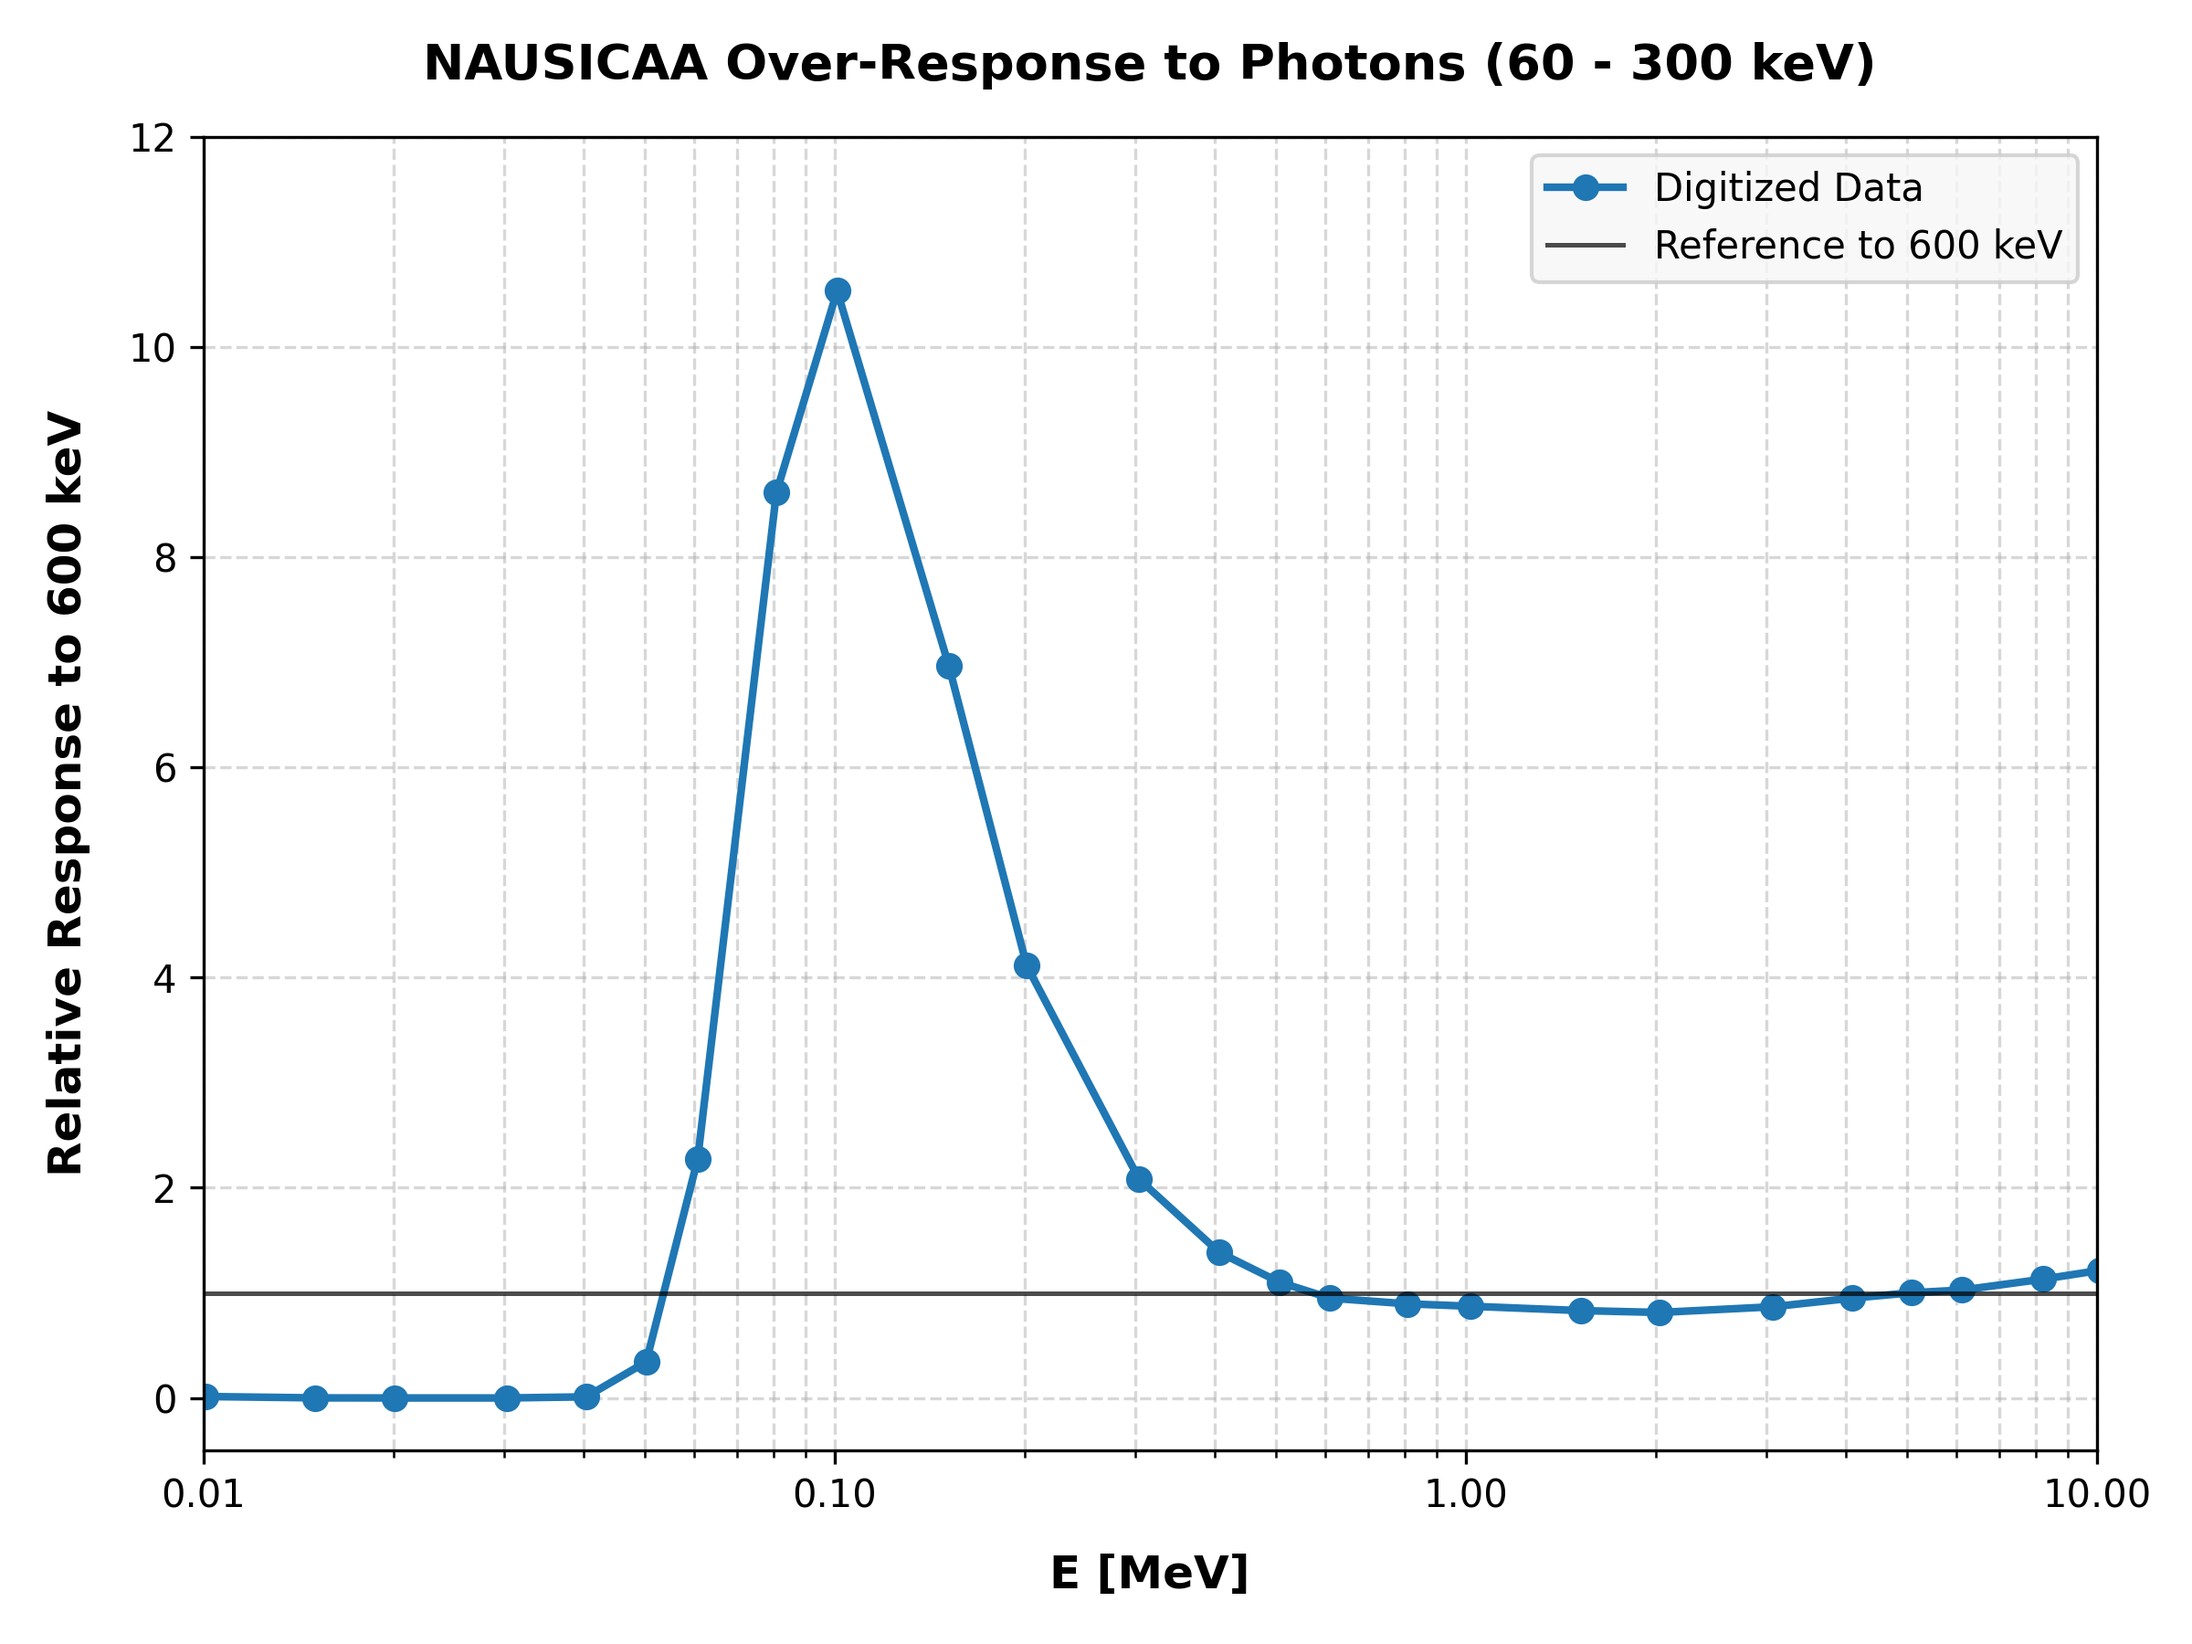
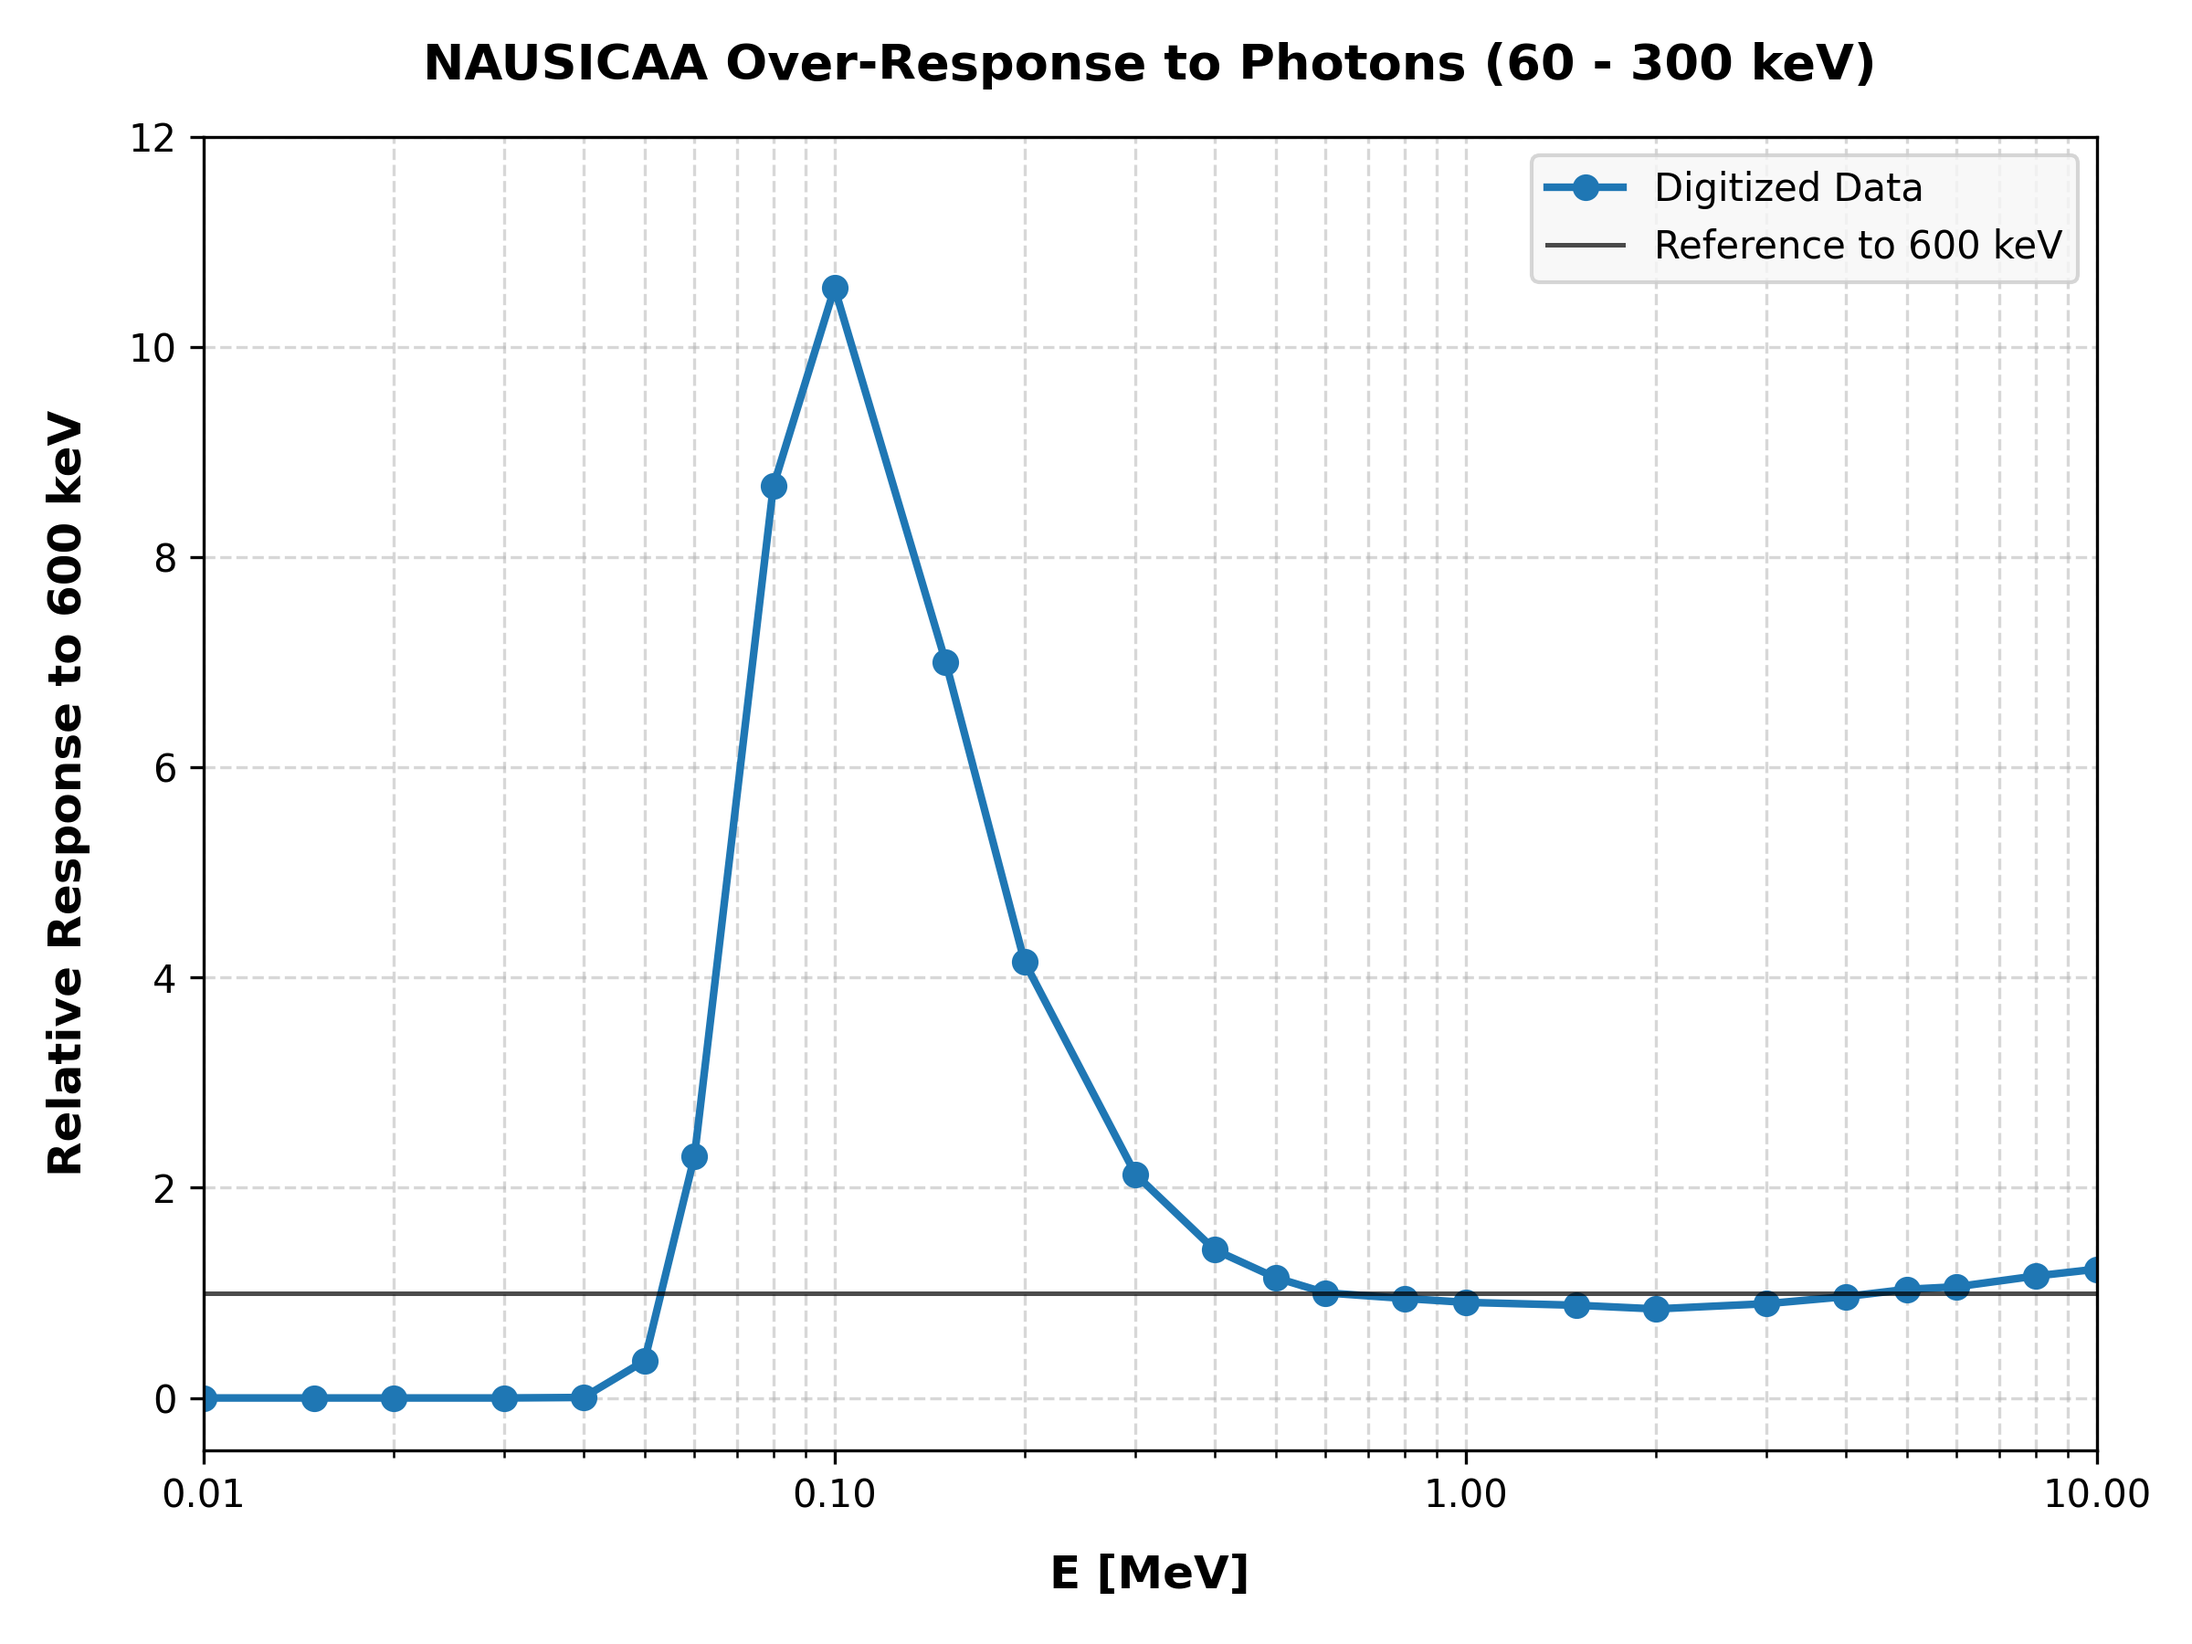
Add NASUICAA relative response from ELSE
Add and use data for the NAUSICAA relative response from ELSE. Add a
debug plot showing interpolated curves.

diff --git a/SwissFEL25/NAUSICAA_responsefolding/NAUSICAA_folding.py b/SwissFEL25/NAUSICAA_responsefolding/NAUSICAA_folding.py
@@ -96,6 +96,17 @@ nausicaa_response = np.array([
 log_energy = -2.0 + (3.0 / 10.0) * raw_x
 nausicaa_energy_mev = 10**log_energy
 
+# Energies for NAUSICAA relative response from ELSE (MeV)
+nausicaa_energy_else = [0.01, 0.015, 0.02, 0.03, 0.04, 0.05, 0.06, 0.08, 0.1, 0.15, 0.2, 0.3, 0.4, 0.5, 0.6, 0.8, 1, 1.5, 2, 3, 4, 5, 6, 8, 10]
+# Relative response of NAUSICAA from ELSE
+nausicaa_relative_response_else = [0, 0, 0, 0, 0.004842763, 0.352806632, 2.301432357, 8.673739113, 10.56133897, 7.002508385, 4.148623247, 2.12561611, 1.410127279, 1.144380419, 1, 0.946905818, 0.909688614, 0.881951532, 0.847079516, 0.896910875, 0.964267628, 1.033522915, 1.05798536, 1.160223887, 1.225733892]
+
+USE_ELSE = True
+
+if USE_ELSE:
+    nausicaa_energy_mev = np.array(nausicaa_energy_else)
+    nausicaa_response = np.array(nausicaa_relative_response_else)
+
 # ==============================================================================
 # Plotting the Reconstructed NAUSICAA Energy Response
 # ==============================================================================
@@ -240,6 +251,84 @@ print(f"Total True H*(10) Dose: {total_true_dose:.3e} pSv")
 print(f"Total Measured NAUSICAA Dose: {total_measured_dose:.3e} pSv")
 print(f"CALCULATED DOSE CORRECTION FACTOR: {correction_factor:.3f}")
 print("==================================================")
+
+import matplotlib.pyplot as plt
+
+# ==============================================================================
+# --- DUAL Y-AXIS OVERLAY PLOT: FLUENCE VS CONVERSION FACTORS & RESPONSE ---
+# ==============================================================================
+fig, ax1 = plt.subplots(figsize=(9, 6))
+
+# --- Primary Y-Axis (Left): Photon Fluence ---
+color_fluence = "tab:blue"
+line1 = ax1.plot(
+    E_center,
+    fluence,
+    label=r"Photon Fluence ($\Phi$) [cm$^{-2}$]",
+    color=color_fluence,
+    linestyle="-",
+    linewidth=1.8,
+)
+
+ax1.set_xscale("log")
+ax1.set_yscale("log")
+ax1.set_xlabel("Energy [MeV]", fontsize=11, fontweight="bold")
+ax1.set_ylabel(
+    r"Photon Fluence ($\Phi$) [cm$^{-2}$]",
+    color=color_fluence,
+    fontsize=11,
+    fontweight="bold",
+)
+ax1.tick_params(axis="y", labelcolor=color_fluence)
+ax1.grid(True, which="both", linestyle="--", alpha=0.5)
+
+# --- Secondary Y-Axis (Right): Conversion Factors & Relative Response ---
+ax2 = ax1.twinx()
+
+color_h10 = "tab:orange"
+line2 = ax2.plot(
+    E_center,
+    interpolated_h10,
+    label=r"ICRU Factor $h_{10}$ [pSv cm$^2$]",
+    color=color_h10,
+    linestyle="--",
+    linewidth=1.8,
+)
+
+color_resp = "tab:green"
+line3 = ax2.plot(
+    E_center,
+    interpolated_response,
+    label="LUPIN/NAUSICAA Relative Response",
+    color=color_resp,
+    linestyle="-.",
+    linewidth=1.8,
+)
+
+ax2.set_yscale("log")
+ax2.set_ylabel(
+    r"Conversion Factor [$pSv \cdot cm^2$] / Relative Response",
+    fontsize=11,
+    fontweight="bold",
+)
+
+# --- Combine Legends from Both Axes into a Single Box ---
+lines = line1 + line2 + line3
+labels = [l.get_label() for l in lines]
+ax1.legend(lines, labels, loc="best", frameon=True, facecolor="#f9f9f9")
+
+# Set title
+plt.title(
+    "Fluence vs. ICRU Conversion Factors and Detector Response",
+    fontsize=12,
+    pad=12,
+    fontweight="bold",
+)
+
+# Save figure directly and close to free memory
+plt.tight_layout()
+plt.savefig("fluence_h10_response_dual_axis.png", dpi=300)
+plt.close(fig)
 
 # ==============================================================================
 # --- PLOTTING: FLUKA FLUENCE + NAUSICAA RESPONSE (MASKED TO SPECTRUM RANGE) ---
